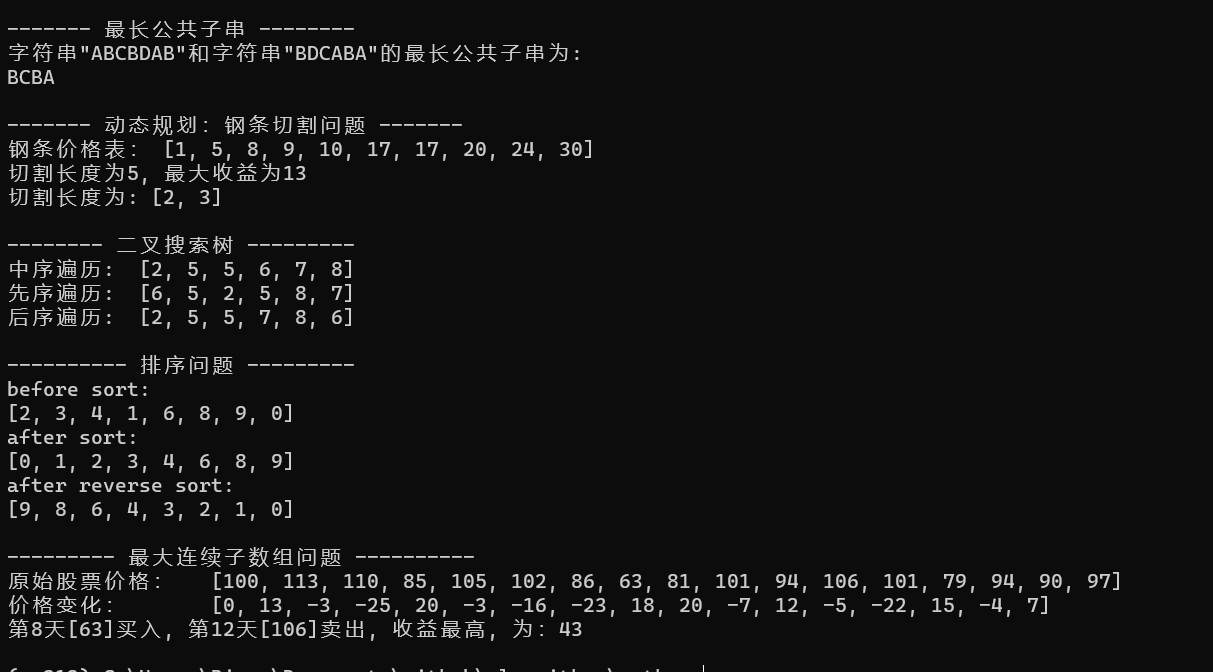
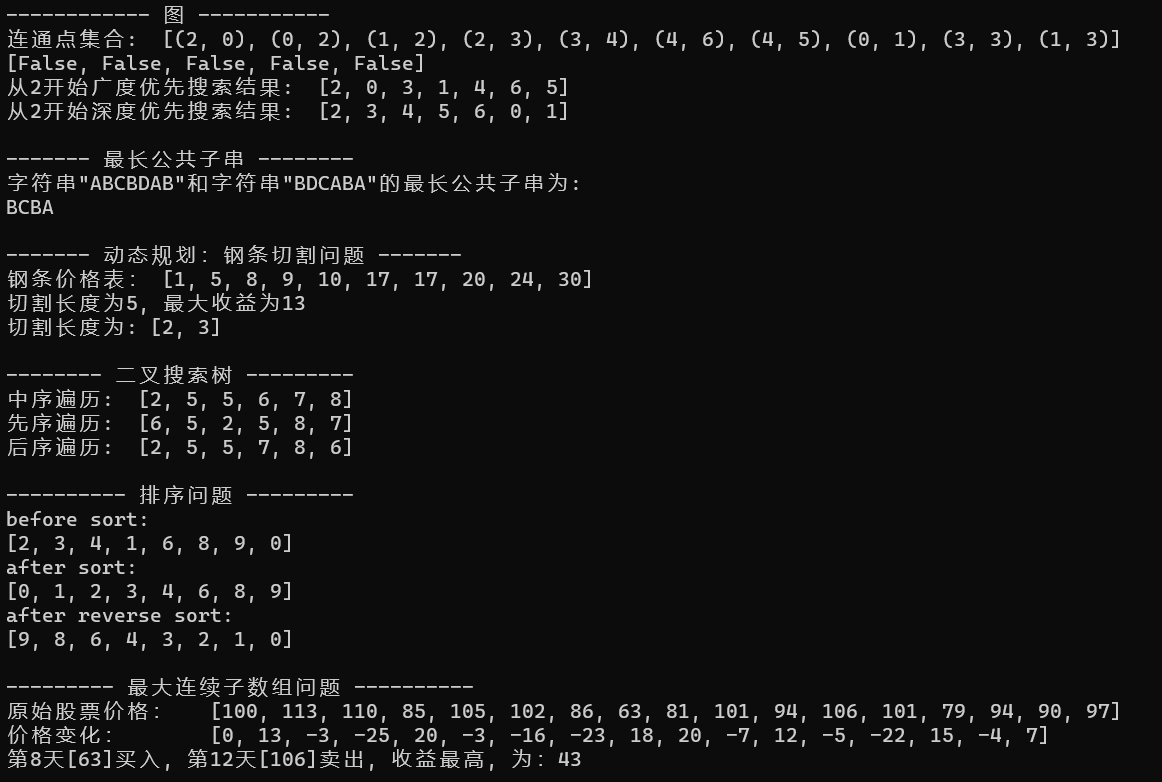
graph

Changed region(s): [[0.0, 0.0, 0.9604, 1.0]]

diff --git a/python/main.py b/python/main.py
@@ -5,9 +5,20 @@ from sort.quick_sort import sort
 # from sort.heap_sort import sort
 from find_maximum_subarray import find_maximum_subarray
 from data_structure.tree import Tree
-from data_structure.node import Node as TreeNode 
+from data_structure.node import Node as TreeNode
+from data_structure.graph import Graph 
 from dynamic_programming.cut_rod import memoized_cut_rod, bottom_up_cut_rod
 from dynamic_programming.lcs import lcs_length, print_lcs, RES_LCS
+
+
+print("\n------------ 图 -----------")
+edge_lst = [(2, 0), (0, 2), (1, 2), (2, 3), (3, 4), (4, 6), (4, 5), (0, 1), (3, 3), (1, 3)]
+print("连通点集合: ", edge_lst)
+g = Graph()
+for edge0, edge1 in edge_lst:
+    g.add_edge(edge0, edge1)
+print("从2开始广度优先搜索结果: ", g.bfs(2))
+print("从2开始深度优先搜索结果: ", g.dfs(2))
 
 
 print("\n------- 最长公共子串 --------")

diff --git a/python/data_structure/graph.py b/python/data_structure/graph.py
@@ -35,6 +35,7 @@ class Graph:
         广度优先搜索
         """
         visitied = [False] * (max(self.graph) + 1)
+        print(visitied)
         queue = [start]
         visitied[start] = True
         result = []
@@ -42,9 +43,9 @@ class Graph:
         while queue:
             v = queue.pop(0)
             result.append(v)
-            print(v)
-            print(self.graph[v])
             for _v in self.graph[v]:
+                if _v >= len(visitied):
+                    visitied.extend([False] * (_v - len(visitied) + 1))
                 if not visitied[_v]:
                     visitied[_v] = True
                     queue.append(_v)
